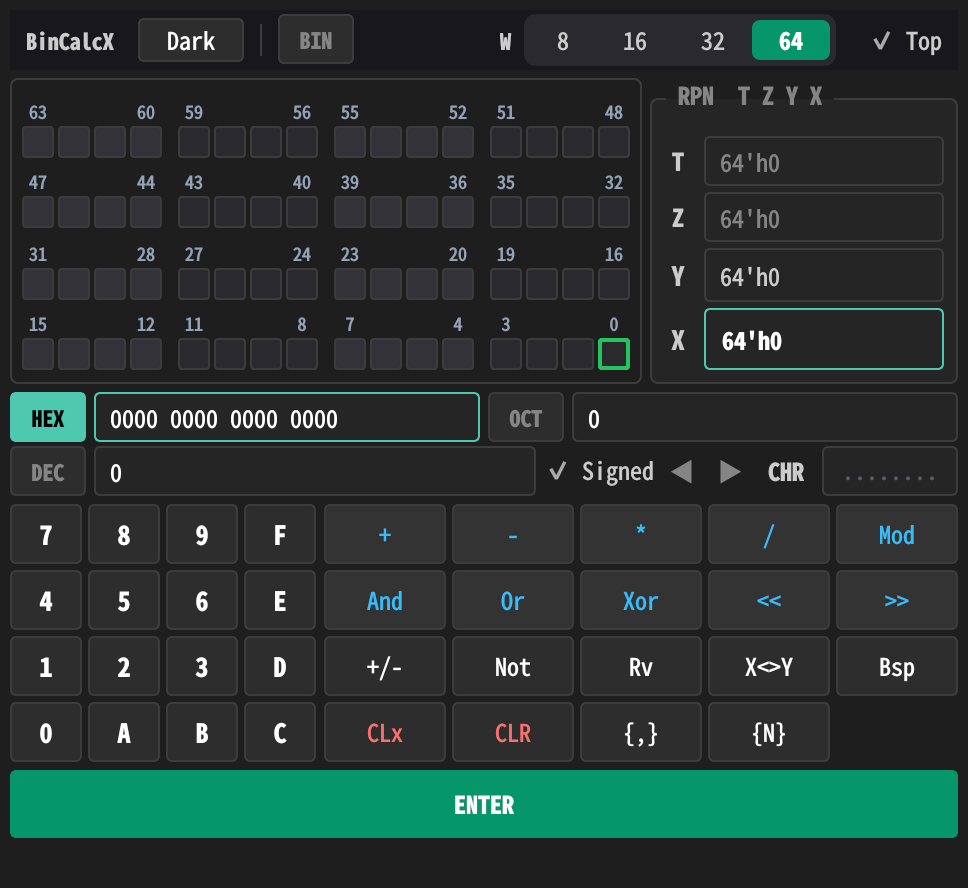
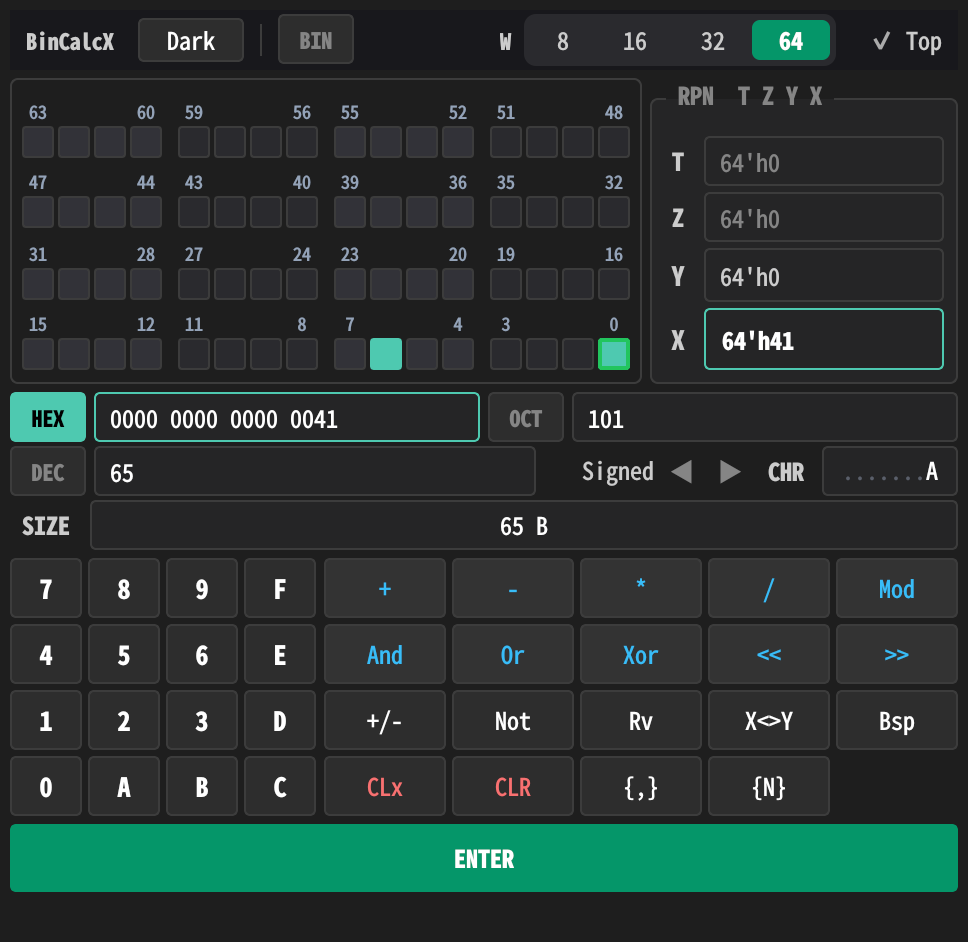
docs: refresh README and preview screenshot for the current UI
- Document the SIZE readout row (X as IEC byte size, added in v1.7.0)
- Fix Verilog-literal examples: the stack emits ungrouped literals
  (32'hDEADBEEF), and {N} on 8'hFF yields 64'hFFFFFFFFFFFFFFFF (N = 8)
- Regenerate docs/preview.png (2x) with the SIZE row visible; state:
  HEX active, X = 0x41 — CHR ".......A", SIZE "65 B", bits 6 and 0 lit

diff --git a/README.md b/README.md
@@ -53,7 +53,7 @@ above each group.
 ### SystemVerilog-literal stack
 
 The four-register RPN stack is printed as **SystemVerilog literals** — e.g.
-`8'hFF`, `4'b1101`, `32'hDEAD_BEEF` — one per register (T · Z · Y · X), with
+`8'hFF`, `4'b1101`, `32'hDEADBEEF` — one per register (T · Z · Y · X), with
 the width prefix matching each register's own bit width. The X register is
 rendered **large, bold, and accent-filled** as the primary readout; T and Z are
 subdued; Y sits in between.
@@ -65,6 +65,9 @@ subdued; Y sits in between.
   highlighted.
 - **CHR** — full 64-bit decode, always shown as exactly 8 monospace cells
   (MSB→LSB); non-printable bytes display as a dimmed `.`.
+- **SIZE** — X read as a byte count in binary (IEC) units, decomposed by place
+  value (`0x120001` → `1 MiB + 128 KiB + 1 B`); all-ones masks show the round
+  value minus one byte (`0xFFFFFFFF` → `4 GiB - 1 B`).
 
 ### Operations
 
@@ -166,7 +169,7 @@ display):
 FF XOR 0F   (HEX)     → F0
 200 ENTER 100 + (W8)  → 44         (masked to 8 bits)
 12'hABC {,} 4'h3      → 16'h0ABC3  ({Y,X} concatenation)
-8'hFF {N}             → 32'hFFFF_FFFF  (replicate X, N = Y)
+8'hFF {N}             → 64'hFFFFFFFFFFFFFFFF  (replicate X, N = Y)
 ```
 
 ## License
